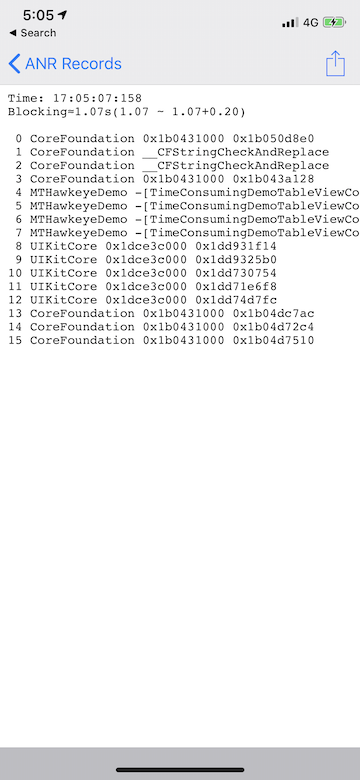
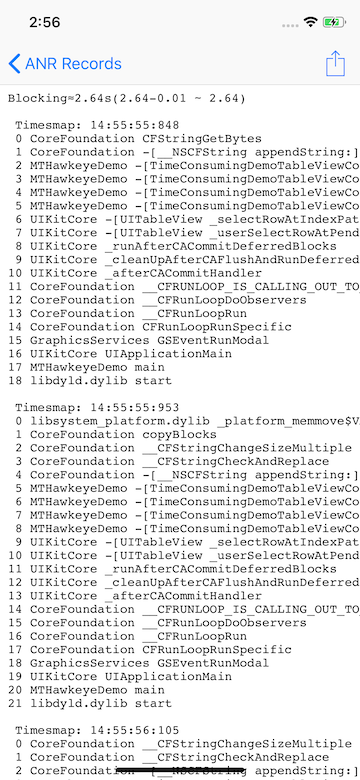
update ANR doc

diff --git a/MTHawkeye/TimeConsumingPlugins/ANRTrace/HawkeyeUI/MTHANRHawkeyeUI.m b/MTHawkeye/TimeConsumingPlugins/ANRTrace/HawkeyeUI/MTHANRHawkeyeUI.m
@@ -16,9 +16,9 @@
 #import "MTHawkeyeUserDefaults+ANRMonitor.h"
 
 #import <MTHawkeye/MTHMonitorViewCell.h>
+#import <MTHawkeye/MTHToast.h>
 #import <MTHawkeye/MTHawkeyeSettingTableEntity.h>
 #import <MTHawkeye/MTHawkeyeUIClient.h>
-#import <MTHawkeye/MTHToast.h>
 
 
 @interface MTHANRHawkeyeUI () <MTHANRTraceDelegate>
@@ -127,7 +127,7 @@
             [[MTHToast shared] showToastWithMessage:@"Detect Interval should be less than ANR Threshold" handler:nil];
             return YES;
         }
-        
+
         if (fabs(value - [MTHawkeyeUserDefaults shared].anrThresholdInSeconds) > DBL_EPSILON)
             [MTHawkeyeUserDefaults shared].anrThresholdInSeconds = value;
         return YES;
@@ -152,7 +152,7 @@
             [[MTHToast shared] showToastWithMessage:@"Detect Interval should be less than ANR Threshold" handler:nil];
             return YES;
         }
-        
+
         if (fabs(value - [MTHawkeyeUserDefaults shared].anrDetectInterval) > DBL_EPSILON)
             [MTHawkeyeUserDefaults shared].anrDetectInterval = value;
         return YES;

diff --git a/MTHawkeye/TimeConsumingPlugins/ANRTrace/Core/MTHANRDetectThread.m b/MTHawkeye/TimeConsumingPlugins/ANRTrace/Core/MTHANRDetectThread.m
@@ -49,7 +49,7 @@
     if ([@(anrThreshold) compare:@(detectInterval)] != NSOrderedDescending) {
         NSAssert(0, @"Detect Interval should be less than ANR Threshold");
     }
-    
+
     self.threadResultBlock = threadResultBlock;
     self.detectInterval = detectInterval;
     self.anrThreshold = anrThreshold;
@@ -105,9 +105,10 @@
                 MTHANRRecord *record = [[MTHANRRecord alloc] init];
                 record.rawRecords = [NSArray arrayWithArray:self.threadStacks];
                 record.duration = runloopCycleStartTime - self.anrStartTime;
+                record.biases = diff;
                 self.threadResultBlock(record);
             }
-            
+
             [self.threadStacks removeAllObjects];
             self.anrStartTime = 0;
         }

diff --git a/MTHawkeye/TimeConsumingPlugins/ANRTrace/HawkeyeUI/MTHANRRecordsViewController.mm b/MTHawkeye/TimeConsumingPlugins/ANRTrace/HawkeyeUI/MTHANRRecordsViewController.mm
@@ -319,9 +319,8 @@ static BOOL anrReportSymbolicsRemote = NO;
     NSMutableString *content = [NSMutableString string];
 
     CGFloat duration = anrRecord.duration / 1000.f;
-    CGFloat threshold = [MTHANRTrace shared].thresholdInSeconds;
-    CGFloat biases = threshold / 2.f; // according to [NSThread sleepForTimeInterval:xx / 4.f]
-    NSString *blockingDesc = [NSString stringWithFormat:@"Blocking≈%.2fs(%.2f ~ %.2f+%.2f) \n", duration, duration, duration, biases];
+    CGFloat biases = anrRecord.biases / 1000.f;
+    NSString *blockingDesc = [NSString stringWithFormat:@"Blocking≈%.2fs(%.2f-%.2f ~ %.2f) \n", duration, duration, biases, duration];
     [content appendString:blockingDesc];
 
     if (anrReportSymbolicsRemote) {

diff --git a/MTHawkeye/TimeConsumingPlugins/ANRTrace/HawkeyeCore/MTHANRHawkeyeAdaptor.m b/MTHawkeye/TimeConsumingPlugins/ANRTrace/HawkeyeCore/MTHANRHawkeyeAdaptor.m
@@ -143,6 +143,7 @@
 
     NSDictionary *dict = @{
         @"duration" : [NSString stringWithFormat:@"%@", @(anrRecord.duration * 1000)],
+        @"biases" : [NSString stringWithFormat:@"%@", @(anrRecord.biases * 1000)],
         @"stacks" : stacks
     };
     NSError *error;
@@ -200,6 +201,7 @@
             }
 
             record.duration = [dict[@"duration"] doubleValue];
+            record.biases = [dict[@"biases"] doubleValue];
             record.rawRecords = rawReocrds;
             [anrRecords addObject:record];
         } else {

diff --git a/MTHawkeye/TimeConsumingPlugins/ANRTrace/Core/MTHANRRecord.h b/MTHawkeye/TimeConsumingPlugins/ANRTrace/Core/MTHANRRecord.h
@@ -25,4 +25,5 @@
 @interface MTHANRRecord : NSObject
 @property (nonatomic, strong) NSArray<MTHANRRecordRaw *> *rawRecords;
 @property (nonatomic, assign) NSTimeInterval duration;
+@property (nonatomic, assign) NSTimeInterval biases;
 @end

diff --git a/doc/time-consuming/anr-tracer.md b/doc/time-consuming/anr-tracer.md
@@ -23,17 +23,52 @@ If you need a accurate duration time while blocking and the detail calls, consid
 
 ANR records is store under [Records file](./../hawkeye-storage.md#0x02-built-in-plugin-data-storage-instructions). Use a `collection` name `anr`, `key` as the time block event generated, `value` is a JSON string with the following fields:
 
-- `time`: the time block event generated
 - `duration`: the rough duration of blocking
+- `biases`: the biases of `duration`
+- `stacks`: all stack frame during block event 
+- `titleframe`: block event stack title string
+- `time`: the time block event generated
 - `stackframes`: sampling stack frame when the block event captured (symbolic needed), hexadecimal address string separated by `,`
 
 examples:
 
 ```json
+
 {
-    "stackframes":"0x1b050d908,0x1b05091fb,0x1b05091fb,0x1b043a15b,0x1029f1013,0x1029f0ccf,0x1029f0727,0x1029f0653,0x1dd932457,0x1dd9326bb,0x1dd73087b,0x1dd71e877,0x1dd74d87f,0x1b04dc7cb,0x1b04d745f,0x1b04d79ff",
-    "time":1553593555.7076001,
-    "duration":"1009.450078010559"
+    biases = "47.95897006988525";
+    duration = "7352.797031402588";
+    stacks = [
+        {
+            stackframes = 0x10d1f64ae;
+            time = "1561618437.344688";
+            titleframe = 0x10d1f64ae;
+        },
+        {
+            stackframes = "0x10d1f5b1f,0x10d1efe7f,0x10d19c407,0x107203a1e,0x107203717,0x1072031dd,0x107203119,0x11545e418,0x11545e62c,0x11524ecc8,0x11523e198,0x11526b32a,0x10d1b80f6,0x10d1b25bd,0x10d1b2c30,0x10d1b2301,0x10ecf02fd,0x115243ba1,0x10720e2e1,0x10d877540";
+            time = "1561618437.448422";
+            titleframe = 0x107203a1e;
+        },
+        {
+            stackframes = "0x10d1efc16,0x10d19c407,0x107203a1e,0x107203717,0x1072031dd,0x107203119,0x11545e418,0x11545e62c,0x11524ecc8,0x11523e198,0x11526b32a,0x10d1b80f6,0x10d1b25bd,0x10d1b2c30,0x10d1b2301,0x10ecf02fd,0x115243ba1,0x10720e2e1,0x10d877540";
+            time = "1561618437.601369";
+            titleframe = 0x107203a1e;
+        },
+        {
+            stackframes = "0x10bd64660,0x107203717,0x1072031dd,0x107203119,0x11545e418,0x11545e62c,0x11524ecc8,0x11523e198,0x11526b32a,0x10d1b80f6,0x10d1b25bd,0x10d1b2c30,0x10d1b2301,0x10ecf02fd,0x115243ba1,0x10720e2e1,0x10d877540";
+            time = "1561618437.803538";
+            titleframe = 0x107203717;
+        },
+        {
+            stackframes = "0x1072039e9,0x107203717,0x1072031dd,0x107203119,0x11545e418,0x11545e62c,0x11524ecc8,0x11523e198,0x11526b32a,0x10d1b80f6,0x10d1b25bd,0x10d1b2c30,0x10d1b2301,0x10ecf02fd,0x115243ba1,0x10720e2e1,0x10d877540";
+            time = "1561618438.056277";
+            titleframe = 0x1072039e9;
+        },
+                {
+            stackframes = "0x10dbd8ce4,0x10d1e0853,0x10d1efedd,0x10d19c407,0x107203a1e,0x107203717,0x1072031dd,0x107203119,0x11545e418,0x11545e62c,0x11524ecc8,0x11523e198,0x11526b32a,0x10d1b80f6,0x10d1b25bd,0x10d1b2c30,0x10d1b2301,0x10ecf02fd,0x115243ba1,0x10720e2e1,0x10d877540";
+            time = "1561618438.359641";
+            titleframe = 0x107203a1e;
+        }
+    ]
 }
 ```
 

diff --git a/doc/time-consuming/anr-tracer-cn.md b/doc/time-consuming/anr-tracer-cn.md
@@ -22,17 +22,52 @@
 
 ANR 的数据存储在 [Records 文件](./../hawkeye-storage-cn.md#0x02-内置插件存储数据说明) 下。`collection` 为 `anr`，`key` 为卡顿时间结束的时间点，`value` 为 json 字符串，字段说明如下：
 
-- `time`: 卡顿事件结束时间点
 - `duration`: 大约的卡顿时长
+- `biases`: 卡顿时长偏差
+- `stacks`: 卡顿周期内记录到的主线程堆栈
+- `titleframe`: 卡顿堆栈标题
+- `time`: 卡顿堆栈记录时间点
 - `stackframes`: 发生时的调用堆栈取样（未符号化）,以 `,` 分隔的十六进制地址字符串
 
 示例：
 
 ```json
+
 {
-    "stackframes":"0x1b050d908,0x1b05091fb,0x1b05091fb,0x1b043a15b,0x1029f1013,0x1029f0ccf,0x1029f0727,0x1029f0653,0x1dd932457,0x1dd9326bb,0x1dd73087b,0x1dd71e877,0x1dd74d87f,0x1b04dc7cb,0x1b04d745f,0x1b04d79ff",
-    "time":1553593555.7076001,
-    "duration":"1009.450078010559"
+    biases = "47.95897006988525";
+    duration = "7352.797031402588";
+    stacks = [
+        {
+            stackframes = 0x10d1f64ae;
+            time = "1561618437.344688";
+            titleframe = 0x10d1f64ae;
+        },
+        {
+            stackframes = "0x10d1f5b1f,0x10d1efe7f,0x10d19c407,0x107203a1e,0x107203717,0x1072031dd,0x107203119,0x11545e418,0x11545e62c,0x11524ecc8,0x11523e198,0x11526b32a,0x10d1b80f6,0x10d1b25bd,0x10d1b2c30,0x10d1b2301,0x10ecf02fd,0x115243ba1,0x10720e2e1,0x10d877540";
+            time = "1561618437.448422";
+            titleframe = 0x107203a1e;
+        },
+        {
+            stackframes = "0x10d1efc16,0x10d19c407,0x107203a1e,0x107203717,0x1072031dd,0x107203119,0x11545e418,0x11545e62c,0x11524ecc8,0x11523e198,0x11526b32a,0x10d1b80f6,0x10d1b25bd,0x10d1b2c30,0x10d1b2301,0x10ecf02fd,0x115243ba1,0x10720e2e1,0x10d877540";
+            time = "1561618437.601369";
+            titleframe = 0x107203a1e;
+        },
+        {
+            stackframes = "0x10bd64660,0x107203717,0x1072031dd,0x107203119,0x11545e418,0x11545e62c,0x11524ecc8,0x11523e198,0x11526b32a,0x10d1b80f6,0x10d1b25bd,0x10d1b2c30,0x10d1b2301,0x10ecf02fd,0x115243ba1,0x10720e2e1,0x10d877540";
+            time = "1561618437.803538";
+            titleframe = 0x107203717;
+        },
+        {
+            stackframes = "0x1072039e9,0x107203717,0x1072031dd,0x107203119,0x11545e418,0x11545e62c,0x11524ecc8,0x11523e198,0x11526b32a,0x10d1b80f6,0x10d1b25bd,0x10d1b2c30,0x10d1b2301,0x10ecf02fd,0x115243ba1,0x10720e2e1,0x10d877540";
+            time = "1561618438.056277";
+            titleframe = 0x1072039e9;
+        },
+                {
+            stackframes = "0x10dbd8ce4,0x10d1e0853,0x10d1efedd,0x10d19c407,0x107203a1e,0x107203717,0x1072031dd,0x107203119,0x11545e418,0x11545e62c,0x11524ecc8,0x11523e198,0x11526b32a,0x10d1b80f6,0x10d1b25bd,0x10d1b2c30,0x10d1b2301,0x10ecf02fd,0x115243ba1,0x10720e2e1,0x10d877540";
+            time = "1561618438.359641";
+            titleframe = 0x107203a1e;
+        }
+    ]
 }
 ```
 
